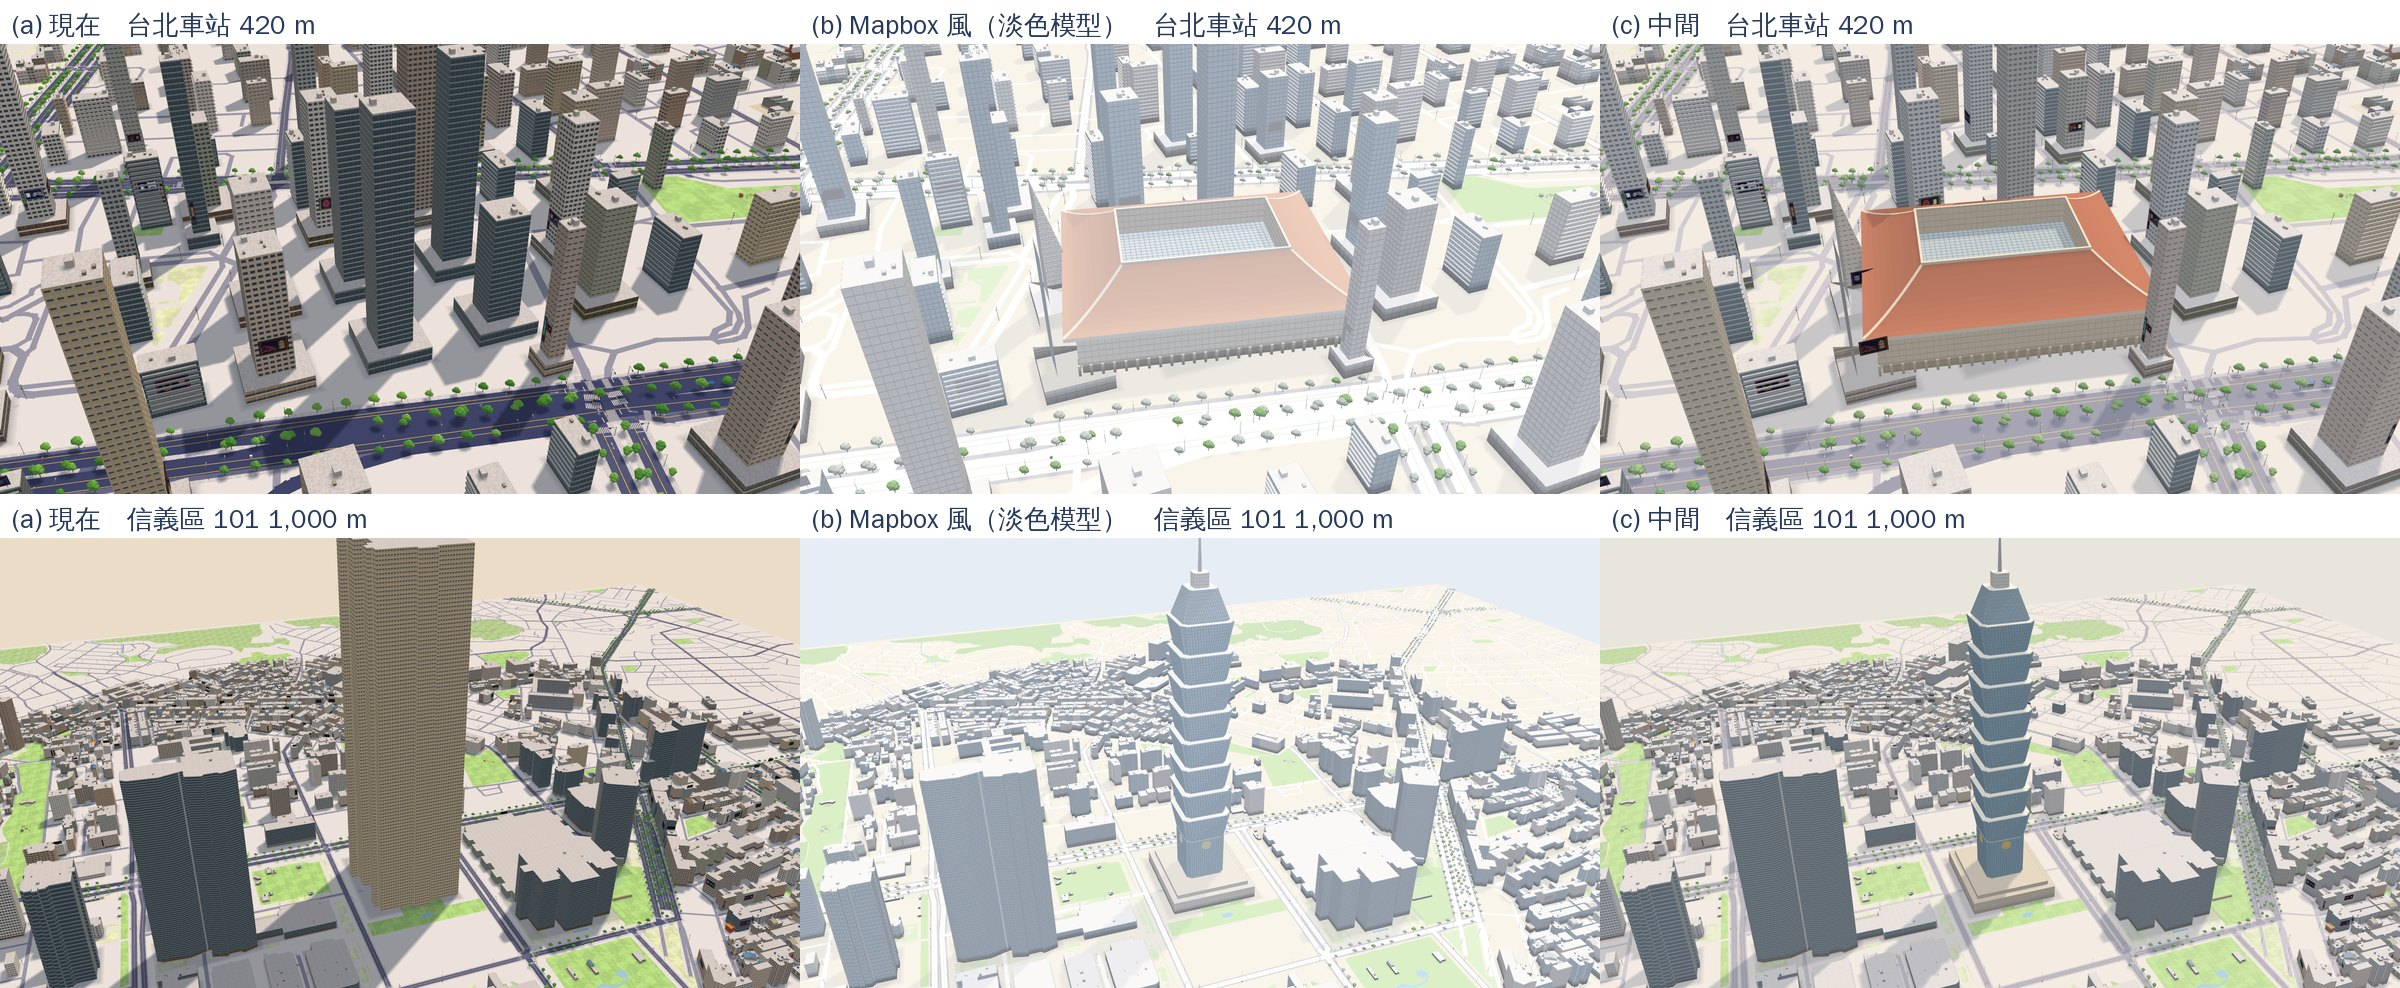
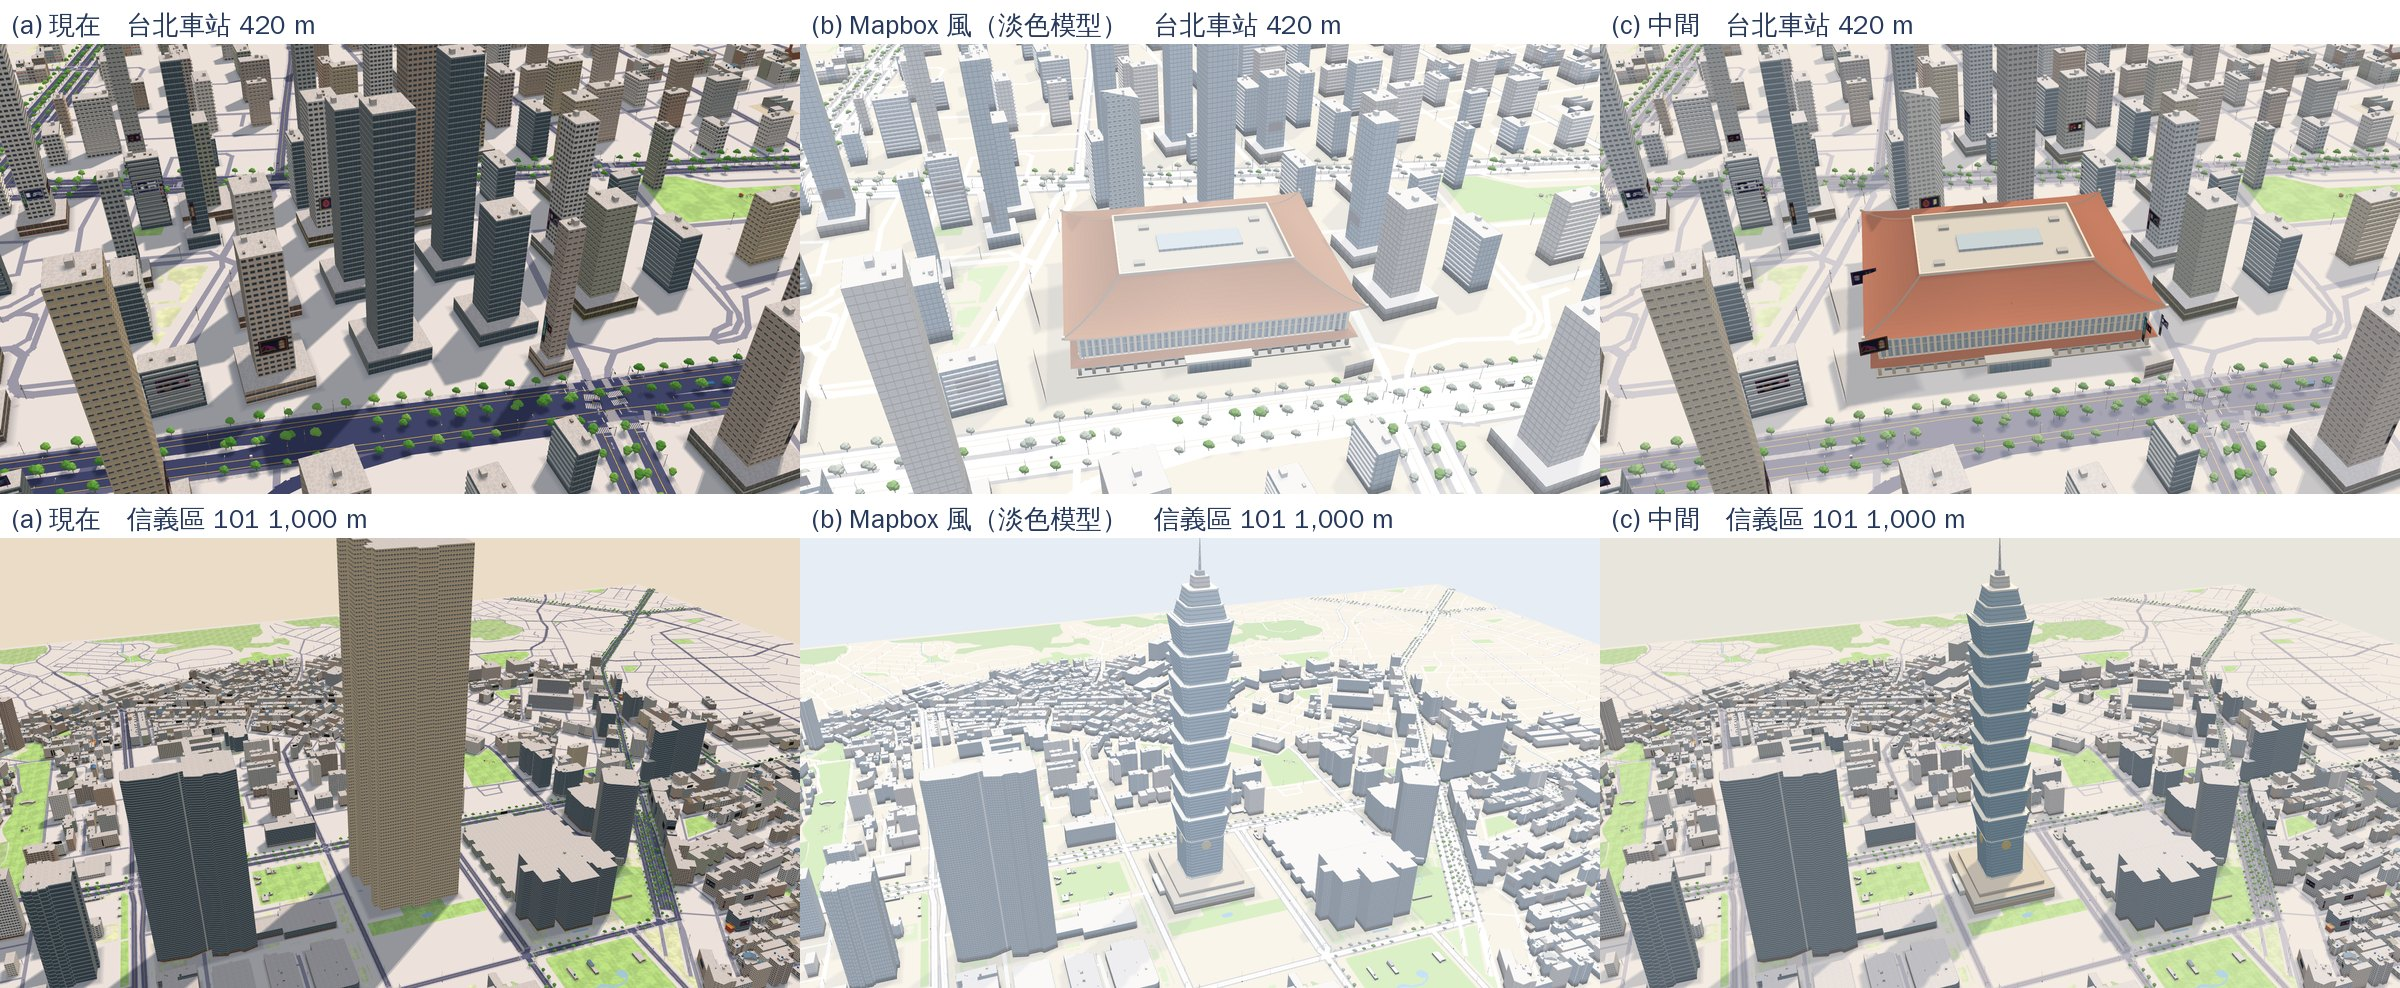
Map 3D look previews: re-sculpt the 101 and Taipei Main landmarks
The owner found the first landmark models crude. Both are rebuilt with
floor lines, thin ledges, corner ornaments and ring coins on the 101, and
a double tiled eave, upturned corners, pilasters, porches and a flat
centre roof on the station. Overview and mapping table updated.

Claude-Session: https://claude.ai/code/session_014cbL5XNksWgQgYNkhMDNxV

diff --git a/docs/art/map3d-mapbox-look-2026-10-23/README.md b/docs/art/map3d-mapbox-look-2026-10-23/README.md
@@ -10,6 +10,8 @@
 | **(b) Mapbox 風（淡色模型）** | 牆白、米白，窗只用細格線，辦公大樓的玻璃淡藍；地面米色、公園淡綠、路白色加細灰邊；光線柔、牆腳稍暗、影子很淡；沒有看板。101 與台北車站照下面的方法重做。**推薦這個**：最接近作者給的截圖，地標一眼認得出來。 |
 | **(c) 中間** | 顏色、貼圖、光線都取 (a) 和 (b) 的一半：牆還看得到一點貼圖、路是淡藏青、台北車站的屋頂紅一點、101 的玻璃深一點。 |
 
+作者 2026-10-23 說地標模型太粗、醜，101 與台北車站已重捏（樓層線、簷板、角飾、兩層瓦簷、上翹的屋角）。
+
 近一點的鏡頭（台北車站 260 m、101 650 m）、每一張原圖、做圖的腳本，在 `a91453/railway-reference-private` 的 `Railway/game-art-previews/docs/art/map3d-mapbox-look-2026-10-23/`。
 
 ## 怎麼做的
@@ -37,14 +39,14 @@
 
 | 參考 | 量到的 | 預覽裡重做成 |
 | --- | --- | --- |
-| 101 `near.mesh.bin` 的 stone、cream（0–25 m，136 × 123 m） | 裙樓的範圍與高度 | 兩階的裙樓，米白、細窗格 |
-| metal、green（25–468 m） | 塔身 25–90 m 約 56–58 m 寬；90–410 m 八節、每節 40 m、由 57.8 外張到 71 m；410–448 m 由 62 m 收到 36.6 m；448–468 m 20 m 寬 | 四角各退兩階的斷面（新做的），淡藍玻璃加直條帷幕線，每節頂上一條白帶 |
-| 尖塔（468–508 m） | 高度 | 八角細柱，淺灰 |
-| gold（74–86 m 兩面） | 位置與大小 | 四面各一枚淡金的圓盤 |
-| 台北車站 stone、glass（146 × 116 m，0–26 m） | 站體範圍、高度 | 一樓退縮的柱廊（6 m 一根柱）＋白牆細窗格 |
-| stone（26–30 m，157 × 127 m） | 簷口的出挑 | 兩層的白色簷板 |
-| tile、red（30–48 m） | 四坡屋頂由簷口內縮、內凹上升到 48 m 的天井邊 | 十段的內凹四坡、淡紅；四條垂脊與天井邊的白色屋脊（新做的） |
-| cream、metal（天井，90 × 55 m） | 天井範圍、底在 32 m | 米白內牆＋淡藍灰的天窗格 |
+| 101 `near.mesh.bin` 的 stone、cream（0–25 m，136 × 123 m） | 裙樓的範圍與高度 | 兩階的裙樓：一樓樓層線、14.5–17.5 m 一圈玻璃帶、入口雨遮，米白 |
+| metal、green（25–468 m） | 塔身 25–90 m 約 56–58 m 寬；90–410 m 八節、每節 40 m、由 57.8 外張到 71 m；410–448 m 由 62 m 收到 36.6 m；448–468 m 20 m 寬 | 四角退階的斷面（新做的）；塔基一段樓層線玻璃；八節各自外張的淡藍玻璃，畫樓層線與窗線，節與節之間一條薄白簷板、四角各一塊如意角飾 |
+| 尖塔（468–508 m） | 高度 | 階梯收頂、燈籠段、座台，上面細尖塔加三圈環 |
+| gold（74–86 m 兩面） | 位置與大小 | 四面各一枚淡金的圓環（中間方孔，外圈兩層） |
+| 台北車站 stone、glass（146 × 116 m，0–26 m） | 站體範圍、高度 | 灰色基座；一樓玻璃加 7.2 m 一根柱；兩長邊各一個入口門廊；二樓以上白牆、3.6 m 一根壁柱、中間細長窗、腰帶 |
+| stone（26–30 m，157 × 127 m） | 簷口的出挑 | 8–11 m 一圈下層瓦簷（四角上翹、簷底板）；25.6–28.6 m 白色簷口 |
+| tile、red（30–48 m） | 四坡屋頂由簷口內縮、內凹上升到 48 m 的天井邊 | 十二段內凹的四坡、淡紅，畫瓦行線；四角往上翹；白色簷邊、四條垂脊與端頭、屋頂邊緣一圈脊（新做的） |
+| cream、metal（天井，90 × 55 m） | 天井範圍、底在 32 m | 改成低於屋脊 2.2 m 的平屋頂，中間一條天窗、四個設備箱 |
 | `placement.json` | 101：錨點、89°；台北車站：錨點、169.5° | 同樣的位置與方向，那塊範圍內的一般城市拿掉 |
 
 沒有用 Mapbox 的任何東西：圖磚、樣式檔、地標模型都沒有下載、轉檔或放進來，只看了作者給的截圖。
